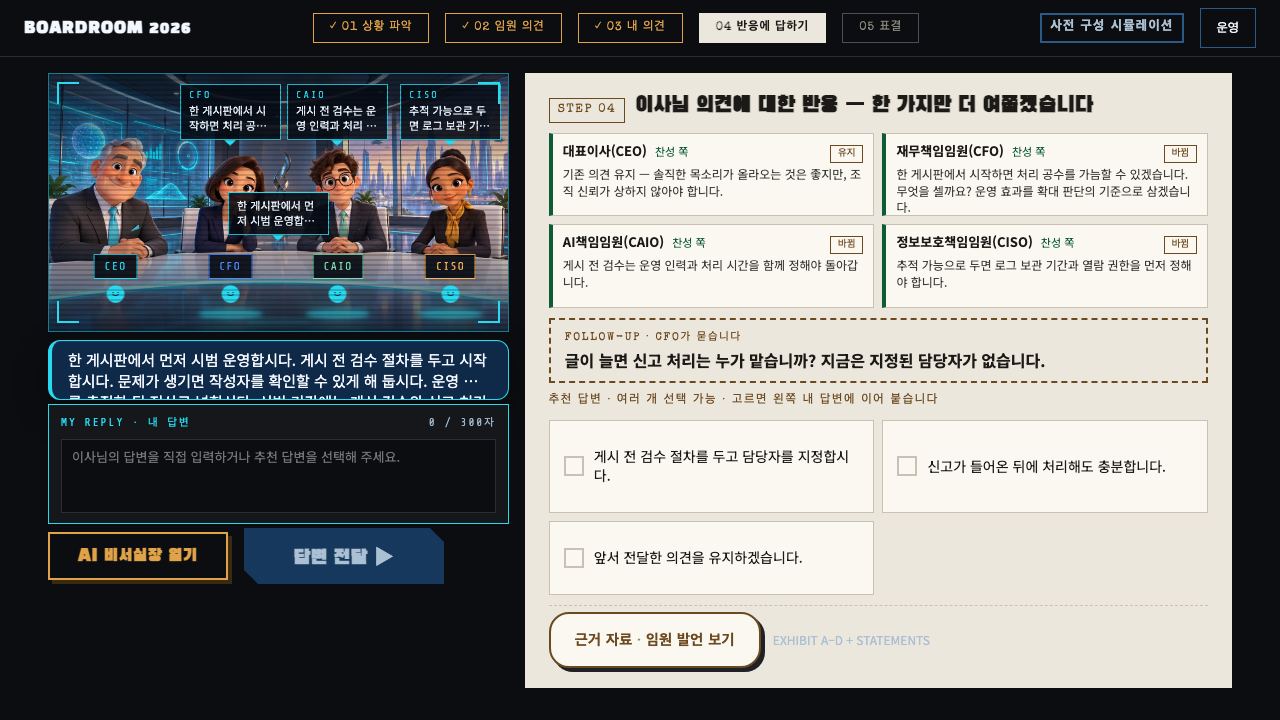
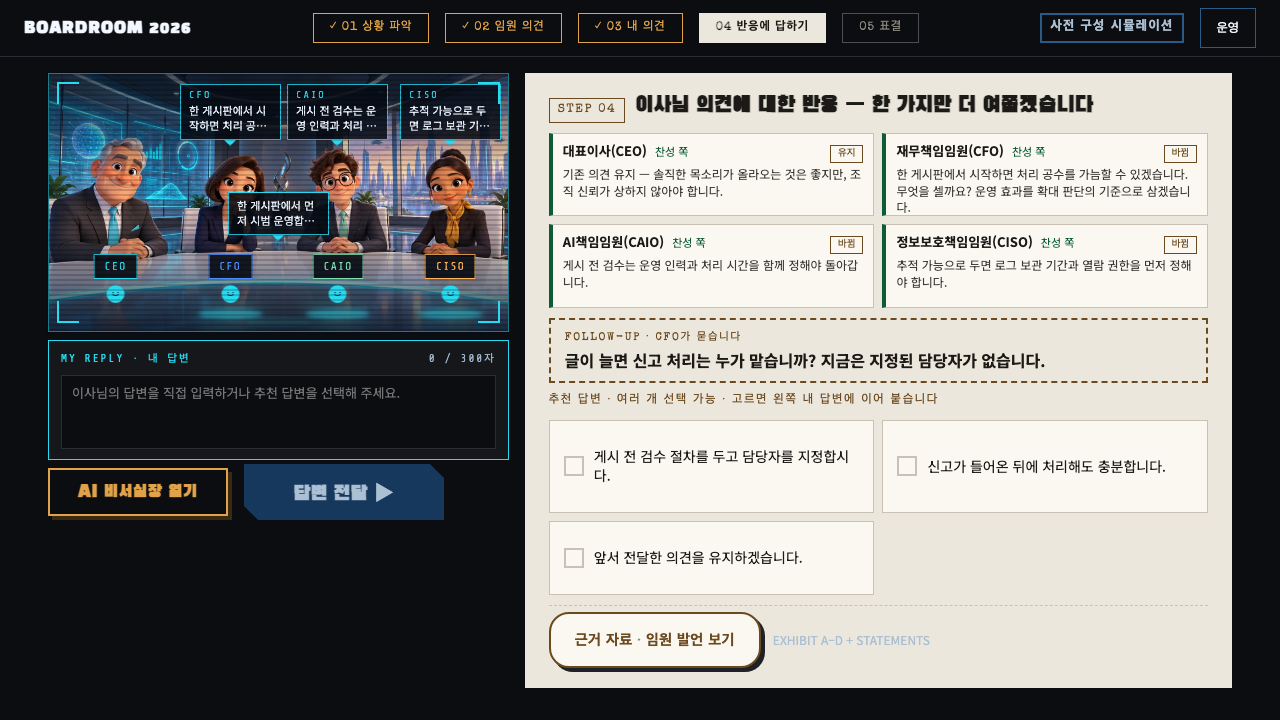
T74 수정: 시안에 없던 내 발언 인용 상자를 빼고 CONDITIONS 칩 색 구분을 더함
S4_Reactions 시안에 전혀 없던 "내 발언 인용" blockquote(reactions-quote)를
완전히 뺐다 — 참가자 본인 발언은 이미 무대 참가자 말풍선이 보여주므로
중복이었다(제로 이탈 지시). e2e/stage.spec.ts의 해당 단언은
stage-bubble-PARTICIPANT 쪽으로 옮기고, e2e/reactions.spec.ts의 2줄 클램프
테스트는 지웠다.

CONDITIONS 칩은 시안대로 기존 확정 조건(cyan 테두리 + "✓")과 이번 답변이
새로 제안한 조건(앰버 테두리 + "+ 새 조건")을 구분하게 했다 — ConditionChips에
선택적 newlyProposedIds prop을 더해(기본값 빈 배열이라 DISCUSS는 그대로 cyan만
쓴다) REACTIONS만 이전에 확정하지 않은 새 제안 id를 넘긴다. 이 구분을 실제로
확인하는 e2e를 새로 추가했다.

npm run check(385)·npm run build·playwright(124건) 모두 통과, 두 해상도
스크린샷을 preview/S4_Reactions.png와 다시 육안 대조했다.

Changed region(s): [[0.0312, 0.4583, 0.4062, 0.825]]

diff --git a/src/components/parts/ConditionChips.tsx b/src/components/parts/ConditionChips.tsx
@@ -2,6 +2,10 @@
 // 확인한 것으로 취급한다(CLAUDE_IMPLEMENTATION.md 4장 "자유 입력 처리"). 실제 충돌
 // 판정·확정 여부는 src/domain/conditions.ts가 계산하고, 이 컴포넌트는 그 결과를
 // 보여주고 토글 요청만 상위로 올린다.
+// T74(S4_Reactions 시안 그대로): REACTIONS는 이전에(DISCUSS에서) 이미 확정된 조건과
+// 이번 답변에서 새로 제안된 조건을 구분해 보여준다 — 기존 확정 칩은 시안색(cyan)
+// 테두리 + "✓", 새로 제안된 칩은 확정돼도 앰버 테두리 + "+ 새 조건"이다. 선택적
+// newlyProposedIds가 비어 있으면(DISCUSS 기본) 전부 기존 cyan "✓" 모양 그대로다.
 
 import type { ConflictPair, Scenario } from '../../content/types';
 
@@ -13,6 +17,9 @@ export interface ConditionChipsProps {
   /** 자유 입력 문장에서 아무 조건도 찾지 못했을 때만 안내 문구를 보여준다. */
   showNoMatchHint: boolean;
   onToggle: (conditionId: string) => void;
+  /** 이번 화면에서 새로 제안된 조건 ID(REACTIONS만 넘긴다). 확정된 칩이 이 목록에
+   * 있으면 "기존 확정"(cyan "✓") 대신 "새 조건"(앰버 "+ 새 조건") 모양을 쓴다. */
+  newlyProposedIds?: string[];
 }
 
 function conditionLabel(scenario: Scenario, conditionId: string): string {
@@ -41,6 +48,7 @@ export function ConditionChips({
   conflictPairs,
   showNoMatchHint,
   onToggle,
+  newlyProposedIds = [],
 }: ConditionChipsProps) {
   if (proposedIds.length === 0) {
     if (!showNoMatchHint) {
@@ -62,17 +70,19 @@ export function ConditionChips({
       <div className="condition-chips__list">
         {proposedIds.map((id) => {
           const accepted = acceptedIds.includes(id);
+          const isNew = newlyProposedIds.includes(id);
+          const modifier = accepted ? (isNew ? ' condition-chip--new' : ' condition-chip--accepted') : '';
           return (
             <button
               key={id}
               type="button"
-              className={`condition-chip${accepted ? ' condition-chip--accepted' : ''}`}
+              className={`condition-chip${modifier}`}
               aria-pressed={accepted}
               data-testid={`condition-chip-${id}`}
               onClick={() => onToggle(id)}
             >
               {conditionLabel(scenario, id)}
-              {accepted ? ' ✓' : ''}
+              {accepted ? (isNew ? ' + 새 조건' : ' ✓') : ''}
             </button>
           );
         })}

diff --git a/src/components/screens/ReactionsScreen.tsx b/src/components/screens/ReactionsScreen.tsx
@@ -21,6 +21,10 @@
 // (T40 이후 바뀌지 않은 KEEP_PREVIOUS 동작). testid followup-option-N·
 // followup-textarea·submit-followup·retry-failed-roles·condition-chip-*·
 // reactions-info(inert)는 모두 그대로 유지한다.
+// 2026-10-02 검토 반영(제로 이탈 지시): 옛 "내 발언 인용" 인용문(blockquote)은
+// S4_Reactions 시안에 없어 뺐다 — 참가자 본인 발언은 이미 무대 참가자 말풍선
+// (StageBand)이 보여주므로 중복이었다. 그 testid·2줄 클램프에 기대던 e2e 단언은
+// 모두 지우거나 다른 신호로 바꿨다.
 
 import { useCallback, useEffect, useMemo, useRef, useState } from 'react';
 import type { ExecMemberId, Scenario } from '../../content/types';
@@ -176,6 +180,15 @@ export function ReactionsScreen({
   const proposedConditionIds = useMemo(
     () => uniqueInOrder([...previousConfirmedIds, ...newProposedIds]),
     [previousConfirmedIds, newProposedIds],
+  );
+
+  // CONDITIONS 칩의 "기존 확정"(cyan) vs "새 조건"(앰버) 구분(T74 2차 검토, 시안
+  // S4_Reactions): DISCUSS에서 이미 확정한 조건을 이 답변이 다시 제안해도(같은
+  // 조건을 가리키는 다른 옵션을 고르는 등) "새 조건"으로 보이면 안 되므로
+  // previousConfirmedIds를 뺀다.
+  const newlyProposedConditionIds = useMemo(
+    () => newProposedIds.filter((id) => !previousConfirmedIds.includes(id)),
+    [newProposedIds, previousConfirmedIds],
   );
 
   // 후속 보완은 이전에 확정한 조건을 그대로 보여주고 유지·해제할 수 있게 하며,
@@ -339,9 +352,6 @@ export function ReactionsScreen({
   return (
     <>
       <div className="app-body__actions screen reactions-screen">
-        <blockquote className="reactions-screen__quote" data-testid="reactions-quote">
-          {lastOpinion?.originalText}
-        </blockquote>
         <div className="reactions-screen__hud" data-testid="reactions-hud">
           <DraftEditor
             value={textValue}
@@ -361,6 +371,7 @@ export function ReactionsScreen({
               conflictPairs={conflictPairs}
               showNoMatchHint={showNoMatchHint}
               onToggle={handleToggleCondition}
+              newlyProposedIds={newlyProposedConditionIds}
             />
           )}
         </div>

diff --git a/src/styles/screens/reactions.css b/src/styles/screens/reactions.css
@@ -21,27 +21,6 @@
   }
 }
 
-/* 내 발언 인용 상자(시안에는 없는 요소지만 기존 동작·testid를 유지한다 — REACTIONS에
-   들어오기 전 DISCUSS에서 전달한 발언을 참가자가 다시 확인할 수 있어야 하고,
-   e2e/stage.spec.ts·noscroll.spec.ts가 이 testid·2줄 클램프에 의존한다). HUD 입력
-   상자 바로 위, 왼쪽 열 맨 앞에 둔다. */
-.reactions-screen__quote {
-  margin: 0;
-  padding: var(--space-1) var(--space-2);
-  background-color: var(--panel);
-  border: 1px solid var(--accent);
-  border-left-width: 4px;
-  border-radius: var(--radius-control);
-  color: var(--text);
-  font-size: var(--fs-card);
-  box-shadow: var(--shadow-card);
-  display: -webkit-box;
-  -webkit-box-orient: vertical;
-  -webkit-line-clamp: 2;
-  line-clamp: 2;
-  overflow: hidden;
-}
-
 /* HUD 입력 상자(시안 "MY REPLY · 내 답변" — discuss-screen__hud와 같은 모양·값).
    DraftEditor·ConditionChips는 discuss.css의 공용 클래스를 그대로 쓴다(컴포넌트
    재사용, T74). */

diff --git a/e2e/stage.spec.ts b/e2e/stage.spec.ts
@@ -163,10 +163,9 @@ test.describe('1920×1080에서 무대 열', () => {
 
   test('REACTIONS에서 내 말풍선 텍스트가 내 발언 첫 문장과 일치한다', async ({ page }) => {
     await enterReactions(page);
-    // 본문 인용문(읽어야 할 정보)이 실제 제출한 전문이다.
-    await expect(page.getByTestId('reactions-quote')).toHaveText(MY_OPINION_TEXT);
-    // 무대의 내 말풍선(장식)은 그 첫 문장과 같다 — MY_OPINION_TEXT 자체가 40자
-    // 이내 한 문장이라 자르지 않고 그대로 나온다.
+    // T74 2차 검토(제로 이탈): 시안에 없던 본문 인용 상자(reactions-quote)를 뺐다 —
+    // MY_OPINION_TEXT 자체가 40자 이내 한 문장이라 무대의 내 말풍선(장식)이 자르지
+    // 않고 그대로 보여준다.
     await expect(page.getByTestId('stage-bubble-PARTICIPANT')).toHaveText(MY_OPINION_TEXT);
   });
 

diff --git a/src/styles/screens/discuss.css b/src/styles/screens/discuss.css
@@ -187,6 +187,14 @@
   color: var(--hud-line);
 }
 
+/* T74(S4_Reactions 시안 그대로): REACTIONS에서 이번 답변으로 새로 제안된 조건이
+   확정되면 기존 확정 칩(cyan)과 다른 앰버 테두리 + "+ 새 조건"으로 보여준다
+   (ConditionChips의 newlyProposedIds). */
+.condition-chip--new {
+  border-color: var(--hud-warn);
+  color: var(--hud-warn);
+}
+
 .condition-chips__conflicts {
   margin: var(--space-1) 0 0;
   padding-left: var(--space-2);

diff --git a/docs/TASKS.md b/docs/TASKS.md
@@ -56,7 +56,7 @@
 | T71 | 완료 | 대기 화면을 시안 `S0_Attract.html`대로(T70과 같은 2026-10-02 지시, T70과 함께 처리). `AttractScreen.tsx`를 시안 DOM 순서대로 재작성 — 시안색 글로우 테두리 박스 안에 무대 사진(채도 0.8·블러 없음)+스캔라인+상하 그라데이션+브래킷+좌상단 CAM 라벨+우상단 TOP SECRET 도장(`--stamp-red`·`--dark-vote-no`, 시안 hex와 토큰이 그대로 일치)을 절대 위치로 올리고, 가운데 세로 블록(모드 배지 → `<h1>` BOARDROOM 2026(글로우 text-shadow) → 부제 → 사건 번호 줄)과 좌하단 CTA(공용 `.cta` 재사용, 위치·너비만 전용 클래스)·우하단 임원 로스터를 둔다. 모드 배지 문구를 live "LIVE · 실제 임원 에이전트 · 4분 이사회"/scripted "사전 구성 시뮬레이션"으로 바꿨지만 testid `attract-mode-badge`와 scripted 쪽 정확 문구·CTA 접근 가능한 이름("체험 시작" 부분일치)은 그대로라 기존 e2e(`live.spec.ts`·`a11y.spec.ts`·`noscroll.spec.ts`·`viewport-fit.spec.ts`)가 수정 없이 통과. `attract.css`를 T70과 같은 두 해상도 값·풀블리드 음수 margin 구조로 전면 재작성. `e2e/screenshots.spec.ts`에 `attract.png` 두 해상도 캡처 신규 추가. `npm run check`·`npm run build`·`npx playwright test -c playwright.local.config.ts`(124개) 모두 통과, 스크린샷을 `preview/S0_Attract.png`와 육안 대조(구성 일치). `DESIGN_SPEC.md` 3장 표의 대기 행을 폐기 표시하고 T70과 같은 v1.3 절에 ATTRACT 소절 추가 |
 | T72 | 완료 | 임원 의견 화면을 시안 `S2_Opinions.html`대로(2026-10-02 "시안 이탈 금지" 지시). 오른쪽 열을 처음으로 "종이 한 장"(`opinions-screen__paper`, `--paper`+`--shadow-paper-main`)으로 바꾸고 그 안에 CONFIDENTIAL 도장+STEP 02 칩+제목("임원 네 명의 첫 의견", 옛 "임원들의 첫 의견"에서 시안 문구로 수정)+안내 한 줄+타자기 집계("찬성 n · 반대 n · 미정 n", `stances`를 실제로 합산)를 뒀다. scripted(`.opinion-card`)·live(`LiveStatementCards`의 새 `variant='grid'`→`.live-statement--grid`)가 같은 시안 카드(종이-2+1px 테두리+역할색 왼쪽 4px 띠+타자기 역할 코드+각진 "발언" 칩(옛 pill 폐기)+"근거 · <자료명>" pill 하나(evidenceIds 여럿이면 마지막 것))를 그리도록 통합했다. live 실패 카드는 S4_Reactions CISO 카드 조합(전체 테두리만 빨강, 왼쪽 띠는 stance색 유지 — CSS 소스 순서로 재확인, `getComputedStyle`로 `borderLeftColor:rgb(92,88,80)`·`borderTopColor:rgb(178,59,59)` 실측)을 쓰고, REACTIONS(`variant='reply'`)는 모든 새 규칙을 `.live-statement--grid`로 좁혀 손대지 않았다(T74 이전). "근거 보기" 토글(시안에 없음)은 없앴다. `e2e/flow-early.spec.ts`·`noscroll.spec.ts`·`viewport-fit.spec.ts`의 제목 단언을 새 문구로 갱신, `e2e/screenshots.spec.ts`의 `opinions.png`(두 해상도)만 갱신(다른 화면은 재인코딩 노이즈만 있어 되돌림). `npm run check`(단위 384)·`npm run build`·`npx playwright test -c playwright.local.config.ts`(124개) 모두 통과, 두 해상도 스크린샷을 `preview/S2_Opinions.png`와 육안 대조(구성 일치) + live mock(CISO 1명 실패)으로 실패 카드 별도 확인. `DESIGN_SPEC.md` 3장 표의 임원 의견 행을 폐기 표시하고 v1.3 절에 OPINIONS 소절(3절) 추가, 검수 소절을 4절로 밀며 숫자 갱신 |
 | T73 | 완료 | 내 의견 화면을 시안 `S3_Discuss.html`·`S3b_Discuss_Evidence.html`대로(2026-10-02 "시안 이탈 금지" 지시). 왼쪽 열은 무대(StageBand) 아래 HUD 입력 상자(`discuss-screen__hud`, `#15171b`+시안색 1px 테두리)로 바꿔 머리줄("MY STATEMENT · 내 발언"+글자 수)을 textarea 위로 올리고(`DraftEditor` 재구성, testid는 그대로), `ConditionChips` 라벨을 "확인할 조건"→"CONDITIONS", 확정 칩을 배지 대신 라벨 끝 "✓" 글자+시안색 테두리로 바꿨다(REACTIONS도 같은 컴포넌트를 써서 함께 바뀐다, S4_Reactions도 같은 배색). 버튼 줄은 `.discuss-screen__submit-row` 스코프 선택자로 이 화면 전용 크기만 덮어썼다(AssistantPanel·.cta 전역 스타일은 유지). 오른쪽 열을 OPINIONS와 같은 "종이 한 장"(`discuss-screen__paper`)으로 바꿔 STEP 03 칩+제목+추천 문구 6개 2열(`PhraseCard`를 시안 커스텀 체크박스로 재작성)+점선 아래 "근거 자료 · 임원 발언 보기" 버튼+STANCE 칩 4개를 두고, **임원 첫 의견 카드 2×2는 시안에 없어 뺐다**(내용은 팝업으로 이동). `EvidenceDialog`를 BRIEFING·DISCUSS 공용으로 확장 — CASE 칩+CONFIDENTIAL 도장+제목 변경("근거 자료 · 임원 발언"), 본문을 1040×600(1280)/1300×750(1920) 고정 종이 패널 2열(EXHIBIT `EvidenceGrid` 압축 3줄 재작성 + 새 STATEMENTS 열: live는 `transcript`의 OPINIONS 발언, scripted는 `initialOpinions`, live pending/failed는 OpinionsScreen과 같은 문구·testid)로 나눴다. `BriefingScreen`은 `statements={[]}`를 넘겨 "STATEMENTS · 02 단계에서 임원이 말하면 여기에 쌓입니다" 빈 상태를 보여준다. `tests/components/DiscussScreen.test.tsx`·`EvidenceDialog.test.tsx`, `e2e/live.spec.ts`·`noscroll.spec.ts`(DISCUSS `statement-card-*` 단언을 팝업을 연 뒤로 이동)·`e2e/briefing.spec.ts`(`.evidence-card__content`→`.evidence-card__meta`)를 갱신. `e2e/screenshots.spec.ts`의 `discuss.png`·`discuss-evidence.png`·`briefing-evidence.png`(두 해상도)만 갱신(다른 화면은 재인코딩 노이즈만 있어 되돌림). `npm run check`(단위 384)·`npm run build`·`npx playwright test -c playwright.local.config.ts`(124개) 모두 통과, 두 해상도 스크린샷을 `preview/S3_Discuss.png`·`preview/S3b_Discuss_Evidence.png`와 육안 대조(구성 일치). `DESIGN_SPEC.md` v1.3 절에 DISCUSS 소절(4절) 추가, 검수 소절을 5절로 밀며 숫자 갱신 |
-| T74 | 완료 | 반응에 답하기 화면을 시안 `S4_Reactions.html`대로(2026-10-02 "시안 이탈 금지" 지시). 왼쪽 열 HUD 입력 상자·CONDITIONS 칩·버튼 줄은 DISCUSS와 같은 컴포넌트를 재사용한다 — `DraftEditor`에 `label`·`ariaLabel`·`placeholder`·testid prop을 넓혀 "MY REPLY · 내 답변" 머리줄로 쓰고(testid는 기존 `followup-textarea` 그대로), `ConditionChips`·버튼 줄 크기(`.reactions-screen__submit-row`)는 `discuss-screen__submit-row`와 같은 값을 그대로 복제했다. **옛 "직접 답하기 열기 → 빠른 답 3버튼/직접 입력" 토글 구조를 걷어내고** textarea가 늘 보이는 편집기로 바꿨다. 추천 답변 3개는 `PhraseCard`를 재사용한 체크 카드(여러 개 선택 가능, 고르면 왼쪽 답변에 이어 붙는다 — `scenario.phrases` 전용인 `domain/draft.ts`를 그대로 못 써서 같은 조합 로직을 화면 안에 다시 짰다)로 바꾸고, "앞서 전달한 의견을 유지하겠습니다"(`keepPrevious`)는 체크 즉시 기존 `onKeepPrevious`를 부른다(조건 제안·충돌·확정·KEEP_PREVIOUS 도메인 동작은 전혀 바꾸지 않았다). 오른쪽 종이는 STEP 04 칩+22px/1280 제목+반응 카드 2×2(scripted는 새 `.reaction-card`, live는 `LiveStatementCards`의 새 `variant='reaction'` — OPINIONS와 같은 `.live-statement--grid` 틀에 코드 칩·아바타만 빼고, 상태 칩을 판단 중/발언/응답 없음 대신 유지/바뀜/응답 없음으로 바꿨다. "바뀜" 여부는 같은 역할의 OPINIONS·REACTIONS 발언 텍스트 비교로 판정. 실패 카드의 "응답 없는 임원 다시 요청" 버튼은 그리드 아래 공용 버튼이 아니라 카드 안에 그린다 — 처음엔 카드를 OPINIONS처럼 `flex:1`로 늘렸다가 행 높이가 좁아져 버튼이 몇 px 넘친 것을 실측으로 발견해, REACTIONS에는 그 늘림 규칙을 빼고 고쳤다)+점선 FOLLOW-UP 상자+추천 답변 체크 카드 2열+"근거 자료 · 임원 발언 보기" 버튼(testid `open-evidence` 그대로) 순서다. `EvidenceDialog`의 STATEMENTS 열에 선택적 `stage` 필드를 더해 02 임원 의견+04 반응 발언을 단계 태그·단계별 testid(`statement-card-<id>-opinions`/`-reactions`)로 함께 보여준다(DISCUSS·BRIEFING은 `stage`를 안 넘겨 영향이 없다). S4 시안에는 없지만 `reactions-quote`(내 발언 인용) testid·동작은 기존 e2e가 의존해 그대로 남겼다(유일한 시안 비일치 요소, 이유는 DESIGN_SPEC.md 3장 5절에 기록). `e2e/reactions.spec.ts`를 체크 카드 흐름으로 다시 쓰고, `a11y.spec.ts`(Enter→Space)·`flow-full.spec.ts`·`noscroll.spec.ts`·`screenshots.spec.ts`의 "직접 답하기 열기" 관련 단언을 textarea 직접 조작으로 갱신, `tests/components/LiveStatementCards.test.tsx`를 `variant='reaction'`으로 다시 썼다. `npm run check`(단위 385)·`npm run build`·`npx playwright test -c playwright.local.config.ts`(124개) 모두 통과, 두 해상도 스크린샷(`reactions.png`)을 `preview/S4_Reactions.png`와 육안 대조(구성 일치, 다른 화면은 재인코딩 노이즈만 있어 되돌림) + live mock(CISO 1명 실패)으로 카드 안 재요청 버튼이 잘리지 않는지 별도 실측. `DESIGN_SPEC.md` v1.3 절에 REACTIONS 소절(5절) 추가, 검수 소절을 6절로 밀며 숫자 갱신 |
+| T74 | 완료 | 반응에 답하기 화면을 시안 `S4_Reactions.html`대로(2026-10-02 "시안 이탈 금지" 지시). 왼쪽 열 HUD 입력 상자·CONDITIONS 칩·버튼 줄은 DISCUSS와 같은 컴포넌트를 재사용한다 — `DraftEditor`에 `label`·`ariaLabel`·`placeholder`·testid prop을 넓혀 "MY REPLY · 내 답변" 머리줄로 쓰고(testid는 기존 `followup-textarea` 그대로), `ConditionChips`·버튼 줄 크기(`.reactions-screen__submit-row`)는 `discuss-screen__submit-row`와 같은 값을 그대로 복제했다. **옛 "직접 답하기 열기 → 빠른 답 3버튼/직접 입력" 토글 구조를 걷어내고** textarea가 늘 보이는 편집기로 바꿨다. 추천 답변 3개는 `PhraseCard`를 재사용한 체크 카드(여러 개 선택 가능, 고르면 왼쪽 답변에 이어 붙는다 — `scenario.phrases` 전용인 `domain/draft.ts`를 그대로 못 써서 같은 조합 로직을 화면 안에 다시 짰다)로 바꾸고, "앞서 전달한 의견을 유지하겠습니다"(`keepPrevious`)는 체크 즉시 기존 `onKeepPrevious`를 부른다(조건 제안·충돌·확정·KEEP_PREVIOUS 도메인 동작은 전혀 바꾸지 않았다). 오른쪽 종이는 STEP 04 칩+22px/1280 제목+반응 카드 2×2(scripted는 새 `.reaction-card`, live는 `LiveStatementCards`의 새 `variant='reaction'` — OPINIONS와 같은 `.live-statement--grid` 틀에 코드 칩·아바타만 빼고, 상태 칩을 판단 중/발언/응답 없음 대신 유지/바뀜/응답 없음으로 바꿨다. "바뀜" 여부는 같은 역할의 OPINIONS·REACTIONS 발언 텍스트 비교로 판정. 실패 카드의 "응답 없는 임원 다시 요청" 버튼은 그리드 아래 공용 버튼이 아니라 카드 안에 그린다 — 처음엔 카드를 OPINIONS처럼 `flex:1`로 늘렸다가 행 높이가 좁아져 버튼이 몇 px 넘친 것을 실측으로 발견해, REACTIONS에는 그 늘림 규칙을 빼고 고쳤다)+점선 FOLLOW-UP 상자+추천 답변 체크 카드 2열+"근거 자료 · 임원 발언 보기" 버튼(testid `open-evidence` 그대로) 순서다. `EvidenceDialog`의 STATEMENTS 열에 선택적 `stage` 필드를 더해 02 임원 의견+04 반응 발언을 단계 태그·단계별 testid(`statement-card-<id>-opinions`/`-reactions`)로 함께 보여준다(DISCUSS·BRIEFING은 `stage`를 안 넘겨 영향이 없다). `ConditionChips`에 선택적 `newlyProposedIds`를 더해 REACTIONS만 기존 확정 조건(cyan "✓")과 이번 답변의 새 조건(앰버 "+ 새 조건", 새 CSS `.condition-chip--new`)을 시안대로 구분한다. `e2e/reactions.spec.ts`를 체크 카드 흐름으로 다시 쓰고, `a11y.spec.ts`(Enter→Space)·`flow-full.spec.ts`·`noscroll.spec.ts`·`screenshots.spec.ts`의 "직접 답하기 열기" 관련 단언을 textarea 직접 조작으로 갱신, `tests/components/LiveStatementCards.test.tsx`를 `variant='reaction'`으로 다시 썼다. **2026-10-02 2차 검토(제로 이탈)**: 시안에 없던 "내 발언 인용" blockquote(`reactions-quote`)를 완전히 뺐다(참가자 본인 발언은 이미 무대 참가자 말풍선이 보여준다) — `e2e/stage.spec.ts`의 해당 단언은 `stage-bubble-PARTICIPANT` 쪽으로 옮기고, `e2e/reactions.spec.ts`의 2줄 클램프 테스트는 지웠다. `npm run check`(단위 385)·`npm run build`·`npx playwright test -c playwright.local.config.ts`(124개) 모두 통과, 두 해상도 스크린샷(`reactions.png`)을 `preview/S4_Reactions.png`와 육안 대조(구성 일치, 다른 화면은 재인코딩 노이즈만 있어 되돌림) + live mock(CISO 1명 실패)으로 카드 안 재요청 버튼이 잘리지 않는지 별도 실측. `DESIGN_SPEC.md` v1.3 절에 REACTIONS 소절(5절) 추가, 검수 소절을 6절로 밀며 숫자 갱신 |
 | T18~T22 | 대기 | P1, P0 PR 이후 카드 상세화 |
 | T23~T24 | 선반영 | P2 카드였으나 P0 live 구현(M-L1·M-L2)에서 범위가 이미 충족됨. T23(서버 어댑터) → `server/index.ts`의 `GET /api/health`·`POST /api/ops/probe`·`/api/board/round`·`/api/board/vote`·`/api/assistant/refine`·`/api/assistant/summarize`(스키마 검증·timeout·본문 상한 포함). T24(클라이언트 live 연결·플래그) → `src/services/assistant/live.ts`(실패 시 원문 유지·`mode:'live'` 기록)와 `src/app/mode.ts`(서버·키 없으면 scripted로 강등, `?mode=scripted` 강제). 카드 본문은 이력으로 남긴다 |
 

diff --git a/docs/design/DESIGN_SPEC.md b/docs/design/DESIGN_SPEC.md
@@ -398,12 +398,13 @@ v0.9 B안(스크롤 타임라인)을 무스크롤 조종석에 맞게 다시 정
 
 ### 5. 반응에 답하기(REACTIONS) — 시안 S4_Reactions (T74)
 
-- **왼쪽 열은 DISCUSS와 같은 HUD 편집기를 재사용**: 무대 아래 HUD 입력 상자는 `DraftEditor`를 그대로 가져다 머리줄만 "MY REPLY · 내 답변"(`ariaLabel="내 답변"`)으로 바꾸고, testid도 `followup-textarea`·`followup-char-count`로 넘겨 기존 e2e를 그대로 통과시켰다(`DraftEditor`에 `label`·`ariaLabel`·`placeholder`·`textareaTestId`·`countTestId`·`errorTestId` prop을 새로 받게 넓히되 기본값은 DISCUSS 값 그대로라 `DiscussScreen` 호출부는 바뀌지 않는다). `ConditionChips`도 변경 없이 그대로 쓴다. 버튼 줄(`.reactions-screen__submit-row .assistant-panel__toggle`·`.cta`)은 `discuss-screen__submit-row`와 똑같은 크기를 그대로 복제했다 — 시안의 두 버튼이 DISCUSS와 같은 치수이기 때문이다. **옛 "직접 답하기 열기 → 빠른 답 3버튼/직접 입력" 토글 구조는 걷어냈다** — textarea는 이제 늘 보인다.
+- **왼쪽 열은 DISCUSS와 같은 HUD 편집기를 재사용**: 무대 아래 HUD 입력 상자는 `DraftEditor`를 그대로 가져다 머리줄만 "MY REPLY · 내 답변"(`ariaLabel="내 답변"`)으로 바꾸고, testid도 `followup-textarea`·`followup-char-count`로 넘겨 기존 e2e를 그대로 통과시켰다(`DraftEditor`에 `label`·`ariaLabel`·`placeholder`·`textareaTestId`·`countTestId`·`errorTestId` prop을 새로 받게 넓히되 기본값은 DISCUSS 값 그대로라 `DiscussScreen` 호출부는 바뀌지 않는다). 버튼 줄(`.reactions-screen__submit-row .assistant-panel__toggle`·`.cta`)은 `discuss-screen__submit-row`와 똑같은 크기를 그대로 복제했다 — 시안의 두 버튼이 DISCUSS와 같은 치수이기 때문이다. **옛 "직접 답하기 열기 → 빠른 답 3버튼/직접 입력" 토글 구조는 걷어냈다** — textarea는 이제 늘 보인다.
+- **CONDITIONS 칩: 기존 확정 vs 새 조건**: 시안은 DISCUSS에서 이미 확정한 조건(cyan 테두리 + "✓")과 이번 답변이 새로 제안한 조건(앰버 `--hud-warn` 테두리 + "+ 새 조건")을 색으로 구분한다 — `ConditionChips`에 선택적 `newlyProposedIds` prop을 더해(기본값 빈 배열, DISCUSS는 그대로 cyan만 쓴다) REACTIONS만 `previousConfirmedIds`를 뺀 이번 답변의 새 제안 id를 넘긴다(새 CSS `.condition-chip--new`). 같은 조건을 이번 답변이 다시 제안해도 이미 확정했던 것이면 cyan으로 남는다.
 - **추천 답변은 체크 카드로, 여러 개 선택 가능**: `scenario.followUp.options`(3개)를 `PhraseCard`에 그대로 먹인다(`PhraseCard`의 `phrase` prop을 `Pick<Phrase, 'id' | 'text'>`로 넓히고 `testId` override를 추가해, REACTIONS가 기존 `followup-option-<n>` testid를 그대로 유지하면서 공용 체크 카드 컴포넌트를 쓴다). 선택한 옵션들의 문구를 순서대로 이어 붙여 답변 textarea를 구성한다 — `domain/draft.ts`는 `scenario.phrases`에 매여 있어 그대로 못 쓰므로 같은 모양의 조합 로직을 `ReactionsScreen.tsx` 안에 다시 짰다(허용 경로가 `src/domain/followup*` 읽기 전용이라 domain을 건드리지 않았다). "앞서 전달한 의견을 유지하겠습니다"(`keepPrevious`) 카드는 조합에 끼지 않고 체크하자마자 기존과 같이 `onKeepPrevious`를 바로 부른다(KEEP_PREVIOUS 도메인 동작은 그대로다). 조건 제안·충돌·확정 규칙(`domain/conditions.ts`)은 전혀 바뀌지 않았다.
 - **오른쪽 종이 — 반응 카드 2×2**: `STEP 04` 칩 + 22px/1280(27.5px/1920) 제목 뒤에 반응 카드 2×2를 둔다. scripted는 새 `.reaction-card`(머리줄 = 직함 굵게 + stance 텍스트 + 우측 "유지"/"바뀜" 칩, 본문은 바뀐 반응이 있으면 그 문장들을 이어 붙이고 없으면 "기존 의견 유지 — <원안 문구>")다. live는 `LiveStatementCards`에 새 `variant='reaction'`을 더했다 — `.live-statement--grid`(OPINIONS와 같은 틀: 종이-2·1px 테두리·역할색 왼쪽 4px 띠)를 그대로 쓰되 코드 칩·아바타는 빼고(시안에 없다) 글자 크기를 줄였다. "유지/바뀜" 여부는 서버가 따로 안 주므로 같은 역할의 OPINIONS 발언과 이번 REACTIONS 발언 텍스트가 같은지(trim 비교)로 가른다 — 다르면 "바뀜", 같거나(혹은 비교할 OPINIONS 발언이 없으면) "유지"다. 실패 카드는 빨간 테두리 + "응답 지연·확인 필요" + "응답 없는 임원 다시 요청" 버튼을 **카드 안에** 그대로 그린다(시안 그대로 — 그리드 아래 공용 버튼이 아니다, `LiveStatementCards`가 `variant='reaction'`일 때 그 공용 버튼을 끄고 카드 안에서만 그려 같은 testid `retry-failed-roles`가 두 곳에 생기지 않게 했다). 처음엔 카드를 OPINIONS처럼 `flex:1`로 늘렸더니 2행으로 균등 분할된 행 높이가 실패 카드의 상태 문구+버튼을 담기엔 좁아 버튼이 카드 아래로 몇 px 넘쳤다(실측) — REACTIONS는 카드 아래 FOLLOW-UP 상자·추천 답변 목록이 이미 남는 세로 공간을 채우므로 그 `flex:1` 규칙을 REACTIONS에는 적용하지 않고 카드를 내용 높이 그대로 두어 해결했다.
 - **점선 FOLLOW-UP 상자 + 추천 답변**: "FOLLOW-UP · `{followUp.askedBy}`가 묻습니다"(시안 그대로 역할 코드, 직함 아님) + 질문 문장을 2px 점선 박스에 담는다(아바타는 시안에 없어 뺐다). 그 아래 타자기 안내("추천 답변 · 여러 개 선택 가능 · 고르면 왼쪽 내 답변에 이어 붙습니다") + 체크 카드 2열(위 항목) + 점선 구분선 아래 "근거 자료 · 임원 발언 보기" 버튼(testid `open-evidence` 그대로) + "EXHIBIT A–D + STATEMENTS" 안내(DISCUSS보다 짧은 시안 문구 그대로).
 - **EvidenceDialog 확장 — 단계 태그**: STATEMENTS 열이 02 임원 의견뿐 아니라 04 반응 발언도 함께 보여줘야 해서 `EvidenceDialogStatementView`에 선택적 `stage` 필드를 더했다 — 값이 있으면 항목 앞에 "02 임원 의견"/"04 반응" 태그를 붙이고 testid도 `statement-card-<id>-opinions`/`-reactions`처럼 단계별로 나눠 같은 임원이 두 번 나와도 testid가 겹치지 않는다(DISCUSS·BRIEFING은 `stage`를 안 넘기므로 태그·testid 변경이 전혀 없다). `statementsColumnLabel` prop도 새로 받아 REACTIONS만 "임원이 한 말(02 의견 + 04 반응)"으로 머리글을 바꾼다(기본값은 DISCUSS 문구 그대로).
-- **내 발언 인용 상자는 시안에 없지만 그대로 둔다**: S4_Reactions 시안 자체에는 "내 발언 인용" 박스가 없지만, DISCUSS에서 전달한 발언을 참가자가 다시 확인할 수 있어야 하고 `e2e/stage.spec.ts`·`e2e/reactions.spec.ts`가 `reactions-quote` testid·2줄 클램프에 의존하므로(기존 동작·testid 유지 원칙) HUD 입력 상자 바로 위에 그대로 남겼다 — 이 한 요소만 시안 1:1이 아니라는 점을 분명히 적어 둔다.
+- **2026-10-02 2차 검토(제로 이탈)**: "내 발언 인용" blockquote(`reactions-quote`)는 S4_Reactions 시안에 전혀 없는 요소였다 — 참가자 본인 발언은 이미 무대 참가자 말풍선(`StageBand`, `stage-bubble-PARTICIPANT`)이 보여주므로 중복이었다. 완전히 뺐다(`reactions-screen__quote` CSS도 지웠다) — 이제 REACTIONS는 요소 단위로 시안과 1:1이다. `e2e/stage.spec.ts`의 해당 단언은 `stage-bubble-PARTICIPANT` 쪽으로 옮기고, `e2e/reactions.spec.ts`의 2줄 클램프 테스트는 지웠다. 같은 차수에서 CONDITIONS 칩 cyan/앰버 구분을 실제로 확인하는 e2e(`condition-chip--accepted`·`condition-chip--new` 클래스, "✓"·"+ 새 조건" 문구)도 새로 추가했다.
 - 접근성·테스트: `e2e/reactions.spec.ts`를 새 체크 카드 흐름으로 다시 썼다(옛 "직접 답하기 열기" 토글 테스트 2건을 지우고 "체크 카드만으로 MOTION까지 도달" 1건으로 합쳤다). `e2e/a11y.spec.ts`의 키보드 전용 경로는 `followup-option-2`가 이제 네이티브 체크박스라 Enter 대신 Space로 토글한다(DISCUSS 추천 문구 카드와 같은 규칙). `e2e/flow-full.spec.ts`·`e2e/noscroll.spec.ts`·`e2e/screenshots.spec.ts`의 "직접 답하기 열기" 관련 단언을 textarea 직접 조작으로 바꿨다. `tests/components/LiveStatementCards.test.tsx`를 `variant='reaction'`으로 다시 썼다(옛 `variant='reply'`는 더 쓰는 화면이 없어 타입에서 뺐다). `e2e/screenshots.spec.ts`의 `reactions.png`(두 해상도)를 새 레이아웃으로 갱신했다(다른 화면 스크린샷은 재인코딩 노이즈만 있어 되돌렸다). live mock(CISO 1명 실패)으로 카드 안 재요청 버튼이 잘리지 않는지 별도로 실측했다.
 
 ### 6. 검수
